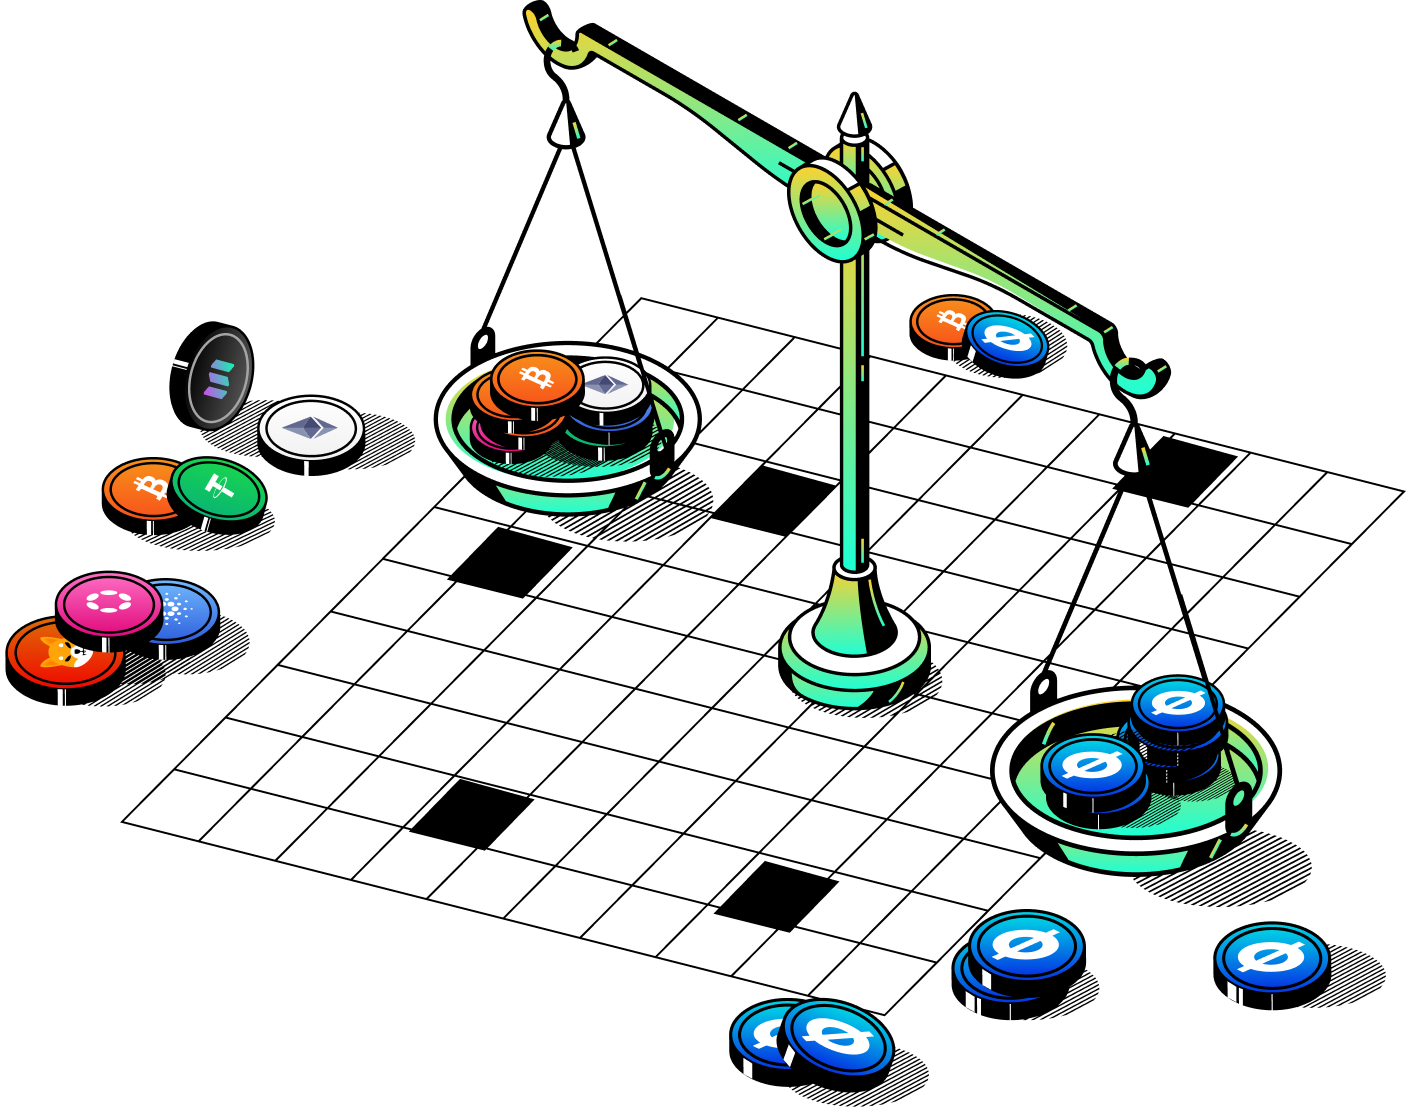
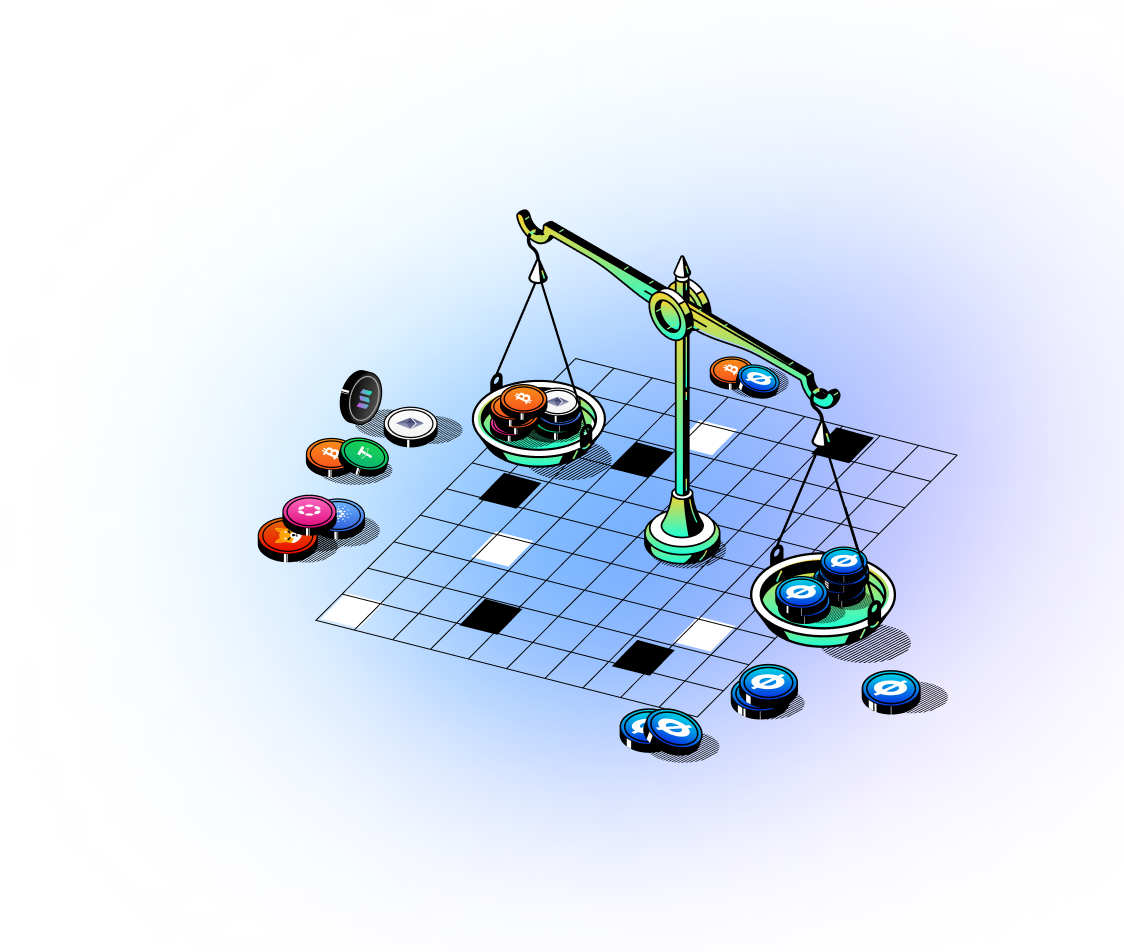
fixed home top background image issue

diff --git a/src/pages/index.less b/src/pages/index.less
@@ -1,11 +1,10 @@
 @import '~themes/global.less';
 
 .homeTopWrapper {
-  background-image: url(../assets/home-top-bgd.png);
+  background-image: url(../assets/home-theme.png);
   background-position-x: right;
   background-position-y: -120px;
   background-repeat: no-repeat;
-  background-size: 80%;
   padding: 130px 0 0 0;
 }
 
@@ -176,7 +175,9 @@
 @media only screen and (max-width: 991px) {
   .homeTopWrapper {
     padding-top: 30px;
-    background-position-y: 0px;
+    background-position-y: -80px;
+    background-image: url(../assets/home-mobile-bgd.png);
+    background-size: cover;
   }
 
   .title {

diff --git a/src/pages/index.tsx b/src/pages/index.tsx
@@ -63,9 +63,6 @@ export default function IndexPage() {
                 <img src={enterApp} />
               </a>
             </Col>
-            <Col xs={24} sm={24} md={24} lg={14} className={styles.chart}>
-              <img src={homeTheme} />
-            </Col>
           </Row>
           <Row className={styles.homeNumbersWrapper}>
             <Col xs={24} sm={24} md={12}>

diff --git a/src/layouts/MainLayout.less b/src/layouts/MainLayout.less
@@ -1,5 +1,7 @@
 .layout {
   background: #000;
+  margin: 0 auto;
+  max-width: 1800px;
 }
 
 .ant-pro-page-container-children-content {
